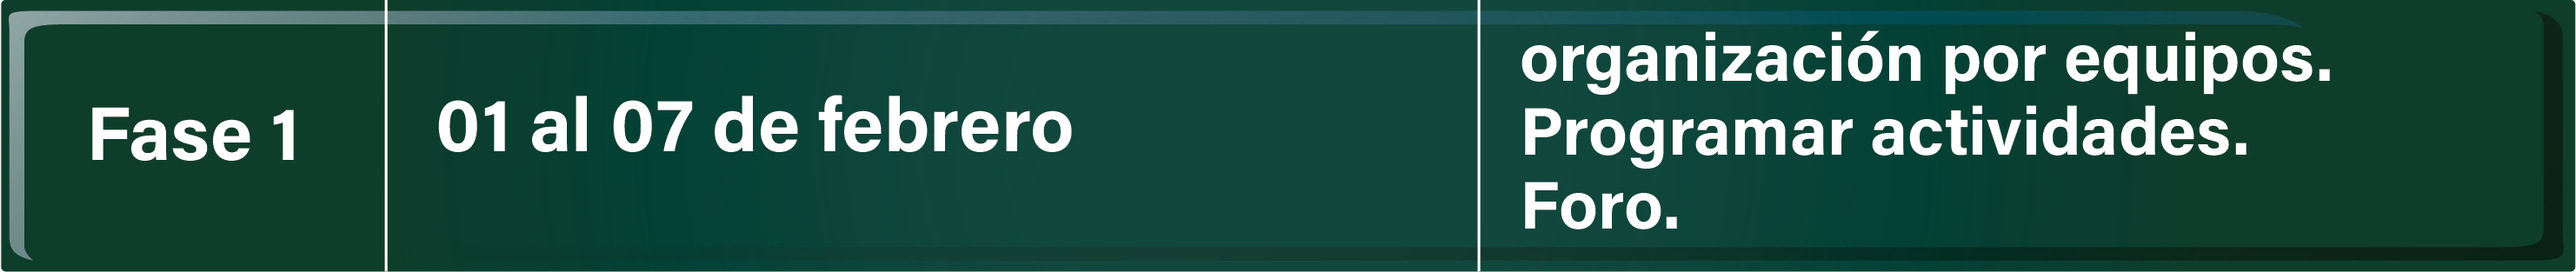
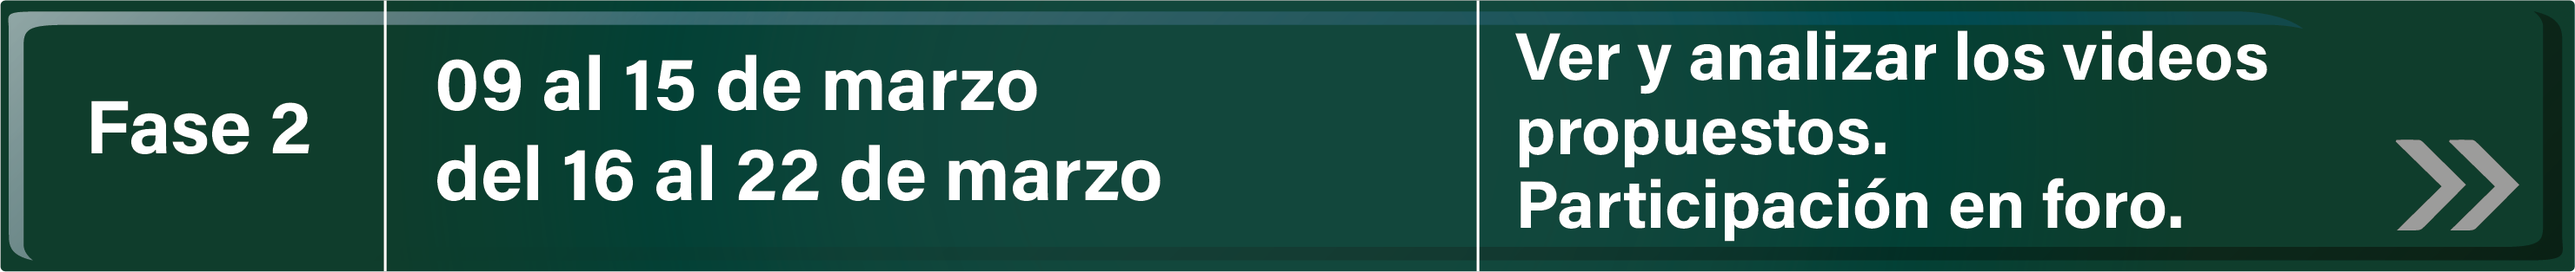
hola

diff --git a/index.html b/index.html
@@ -231,7 +231,7 @@
                         <div class="servicio-ind">
                             <h2 class="titulo">Ubicación curricular</h2> 
                             <div class="">
-                                <h1>Ciencias Naturales</h1>
+                                <h1 align="center" >Ciencias Naturales </h1>
                                 <br>
                                 <h3>Tercer grado</h3>
                                 <br>
@@ -275,7 +275,7 @@
                                 <br>  
                                 <b>Bloque II. Tema 3.</b><p>Relación de la contaminación del aire con el calentamiento global y el cambio climático</p>
                                 <br> 
-                                <h1>Español</h1>
+                                <h1 align="center" >Español</h1>
                                 <br>
                                 <h3>Tercer grado</h3>
                                 <br>
@@ -352,13 +352,13 @@
                 <div class="servicio-cont  bienvenido mostrar6 oculto">
                     <div class="servicio-ind">
                         <h2 class="titulo">Calendario</h2> 
-                        <img class="btn-img" src="img/1.png" alt="" onclick="mostrarFases(1)">
-                        <img class="btn-img" src="img/2.png" alt=""onclick="mostrarFases(2)" >
-                        <img class="btn-img" src="img/3.png" alt=""onclick="mostrarFases(3)" >
-                        <img class="btn-img" src="img/4.png" alt=""onclick="mostrarFases(4)" >
-                        <img class="btn-img" src="img/5.png" alt=""onclick="mostrarFases(5)" >
-                        <img class="btn-img" src="img/6.png" alt=""onclick="mostrarFases(6)" >
-                        <img class="btn-img" src="img/7.png" alt=""onclick="mostrarFases(7)">
+                        <img class="btn-img" src="img/0.png" alt=""onclick="mostrarFases(1)">
+                        <img class="btn-img" src="img/1.png" alt=""onclick="mostrarFases(2)" >
+                        <img class="btn-img" src="img/2.png" alt=""onclick="mostrarFases(3)" >
+                        <img class="btn-img" src="img/3.png" alt=""onclick="mostrarFases(4)" >
+                        <img class="btn-img" src="img/4.png" alt=""onclick="mostrarFases(5)" >
+                        <img class="btn-img" src="img/5.png" alt=""onclick="mostrarFases(6)" >
+                        <img class="btn-img" src="img/6.png" alt=""onclick="mostrarFases(7)">
                     </div>
                 </div>
                 <!-- datos Actividades -->
@@ -368,7 +368,7 @@
                         <br>
                         <h1>Actividad "Fase 0"</h1>
                         <br>
-                        <h4>Fecha: del 17 al 31 de enero</h4>
+                        <h4>Fecha: del 15 de febrero al 01 de marzo</h4>
                         <br>
                         <p>En esta etapa el profesor conoce el proyecto, platica con sus alumnos  y juntos deciden su participación y llenado del formato de inscripción.</p>
                         <br>
@@ -383,7 +383,7 @@
                     <div class=" calendario fase3 oculto">
                         <h1>Actividad "Fase 1"</h1>
                         <br>
-                        <h4>Fecha: del 1 al 7 de febrero</h4>
+                        <h4>Fecha: del 02 al 08 de marzo</h4>
                         <br>
                         <p>
                             En este momento corresponde al profesor organizar a los alumnos. El docente tiene la libertad para decidir qué dinámica seguirán para que participe todo el grupo.</p>
@@ -403,7 +403,7 @@
                     <div class=" calendario fase4 oculto">
                         <h1>Actividad "Fase 2"</h1>
                         <br>
-                        <h4>Fecha: del 8 al 14 de febrero</h4>
+                        <h4>Fecha: del 09 al 15 de marzo</h4>
                         <br>
                         <p>El profesor orientará a los alumnos para que conozcan los videos</p>  <h4> ”El monstruo de la basura”,  y "Una aventura para salvar el planeta".</h4> 
                         <p>Los alumnos conocerán los videos y los analizarán en equipos tomando en cuenta los siguientes cuestionamientos: </p>
@@ -416,14 +416,14 @@
                         <li>¿Qué mensaje nos dejó cada video?</li>
                         <li>¿En  que son semejantes los videos?</li> </ul>
                         <br>
-                        <h4>Fecha: del 15 al 21 de febrero</h4>
+                        <h4>Fecha: del 16 al 22 de marzo</h4>
                         <br>
                         <p>Cada equipo comentará la información rescatada y elaborarán grupalmente un texto que involucre los puntos tratados en las interrogantes pero sin contestar cada pregunta, enviando su mensaje al Foro de comentarios de videos sobre la basura.</p>
                     </div>
                     <div class=" calendario fase5 oculto">
                         <h1>Actividad "Fase 3"</h1>
                         <br>
-                        <h4>Fecha: del 22 de febrero al 7 de marzo</h4>
+                        <h4>Fecha: del 23 de marzo al 29 de marzo</h4>
                         <br>         
                         <p>En esta etapa el grupo organizado en equipos obtendrá información sobre algunas cuestiones como:</p> 
                         <ul>
@@ -453,7 +453,7 @@
                         <br>
                         <p>El profesor organizará un debate entre los equipos con el tema Importancia de la separación de la basura.Cada equipo elaborará un resumen del resultado del debate.</p>
                         <br>
-                        <h4>fecha: del 8 al 14 de marzo</h4>
+                        <h4>fecha: del 30 de marzo al 26 de abril</h4>
                         <br>
                         <p>Los alumnos compartirán con sus compañeros del proyecto sus investigaciones utilizando un  Foro de Discusión.</p>
                         <br>
@@ -463,7 +463,7 @@
                     <div class=" calendario fase6 oculto">
                         <h1>Actividad "Fase 4"</h1>
                         <br>
-                        <h4>Fecha: del 15 al 21 de marzo</h4>
+                        <h4>Fecha: del 27 de abril al 03 de mayo</h4>
                         <br>
                         <p>Los alumnos constituidos en guardianes de la limpieza, realizan la campaña "Separemos la basura", en esta campaña gestionan, con la ayuda de toda la comunidad escolar, el colocar en la escuela botes para depositar en forma separada la basura orgánica e inorgánica.</p>
                         <br> 
@@ -471,7 +471,7 @@
                         <br>
                         <p>Las evidencias de esta actividad deberán subirlas al blog del proyecto.</p>
                         <br>
-                        <h4>Fecha: del 22 al 28 de marzo</h4>
+                        <h4>Fecha: del 04 al 11 de mayo</h4>
                         <br>
                         <p>Los alumnos participarán en el foro</p>
                         <br>
@@ -481,7 +481,7 @@
                     <div class=" calendario fase7 oculto">
                         <h1>Actividad "Fase 5"</h1>
                         <br>
-                        <h4>Fecha: del 29 de marzo al 4 de abril</h4>
+                        <h4>Fecha: del 12 al 18 de mayo</h4>
                         <br>
                         <p>El profesor guiará a sus alumnos para elaborar un reciclado de papel.</p>
                         <br>
@@ -500,7 +500,7 @@
                         <br>
                         <p>También se puede pedir a los alumnos que en equipos utilicen materiales de deshecho y con ellos elaborar una diversidad de objetos entre los que puede encontrarse lapiceros, portarretratos, diversidad de juguetes.</p>
                         <br>
-                        <h4>fecha: del 5 al 25 de abril</h4>
+                        <h4>fecha: del 19 al 25 de mayo</h4>
                         <br>
                         <p>Como una aportación final cada grupo participante elaborará un cuento donde el tema central sea la basura y dentro de este cuento se dé solución a la problemática planteada. La extensión será libre.</p>
                         <br>
@@ -509,7 +509,7 @@
                         <li><a href="https://www.vix.com/es/imj/familia/5336/rimas-infantiles-sobre-el-medio-ambiente"target="_blank">Rimas infantiles sobre el medio ambiente - VIX</a></li>
                         <li><a href="https://brainly.lat/tarea/1227917"target="_blank">Rimas del medio ambiente cortas - Brainly.lat</a></li>
                         <br>
-                        <h4>Fecha del 26 de abril al 6 de mayo</h4>
+                        <h4>Fecha del 26 de mayo al 01 de junio</h4>
                         <br>
                         <p>Los alumnos podrán compartir sus conclusiones en el foro.</p>
                         <br>
